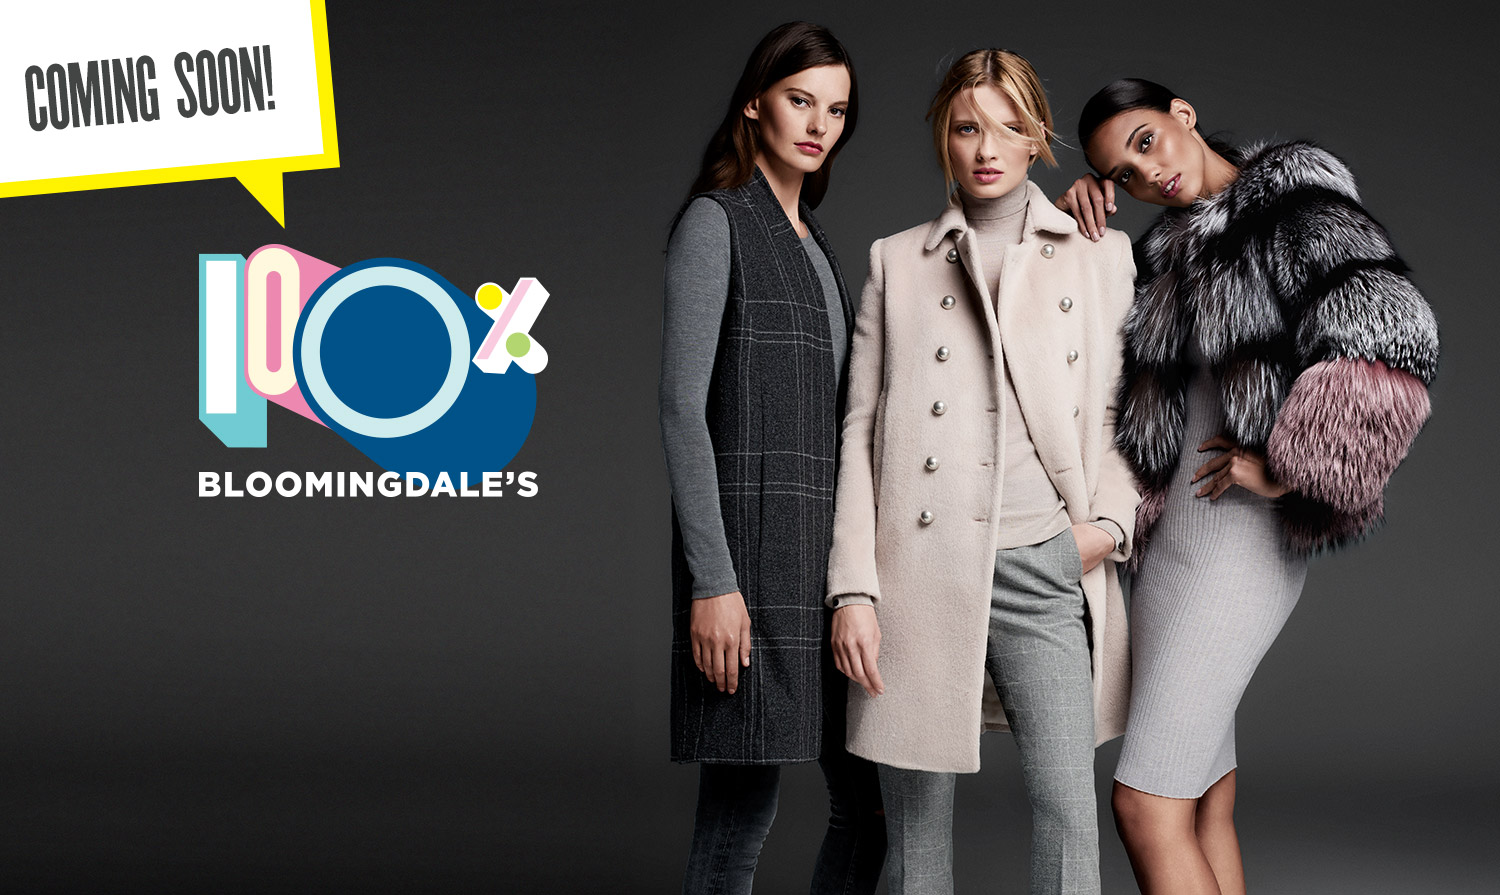
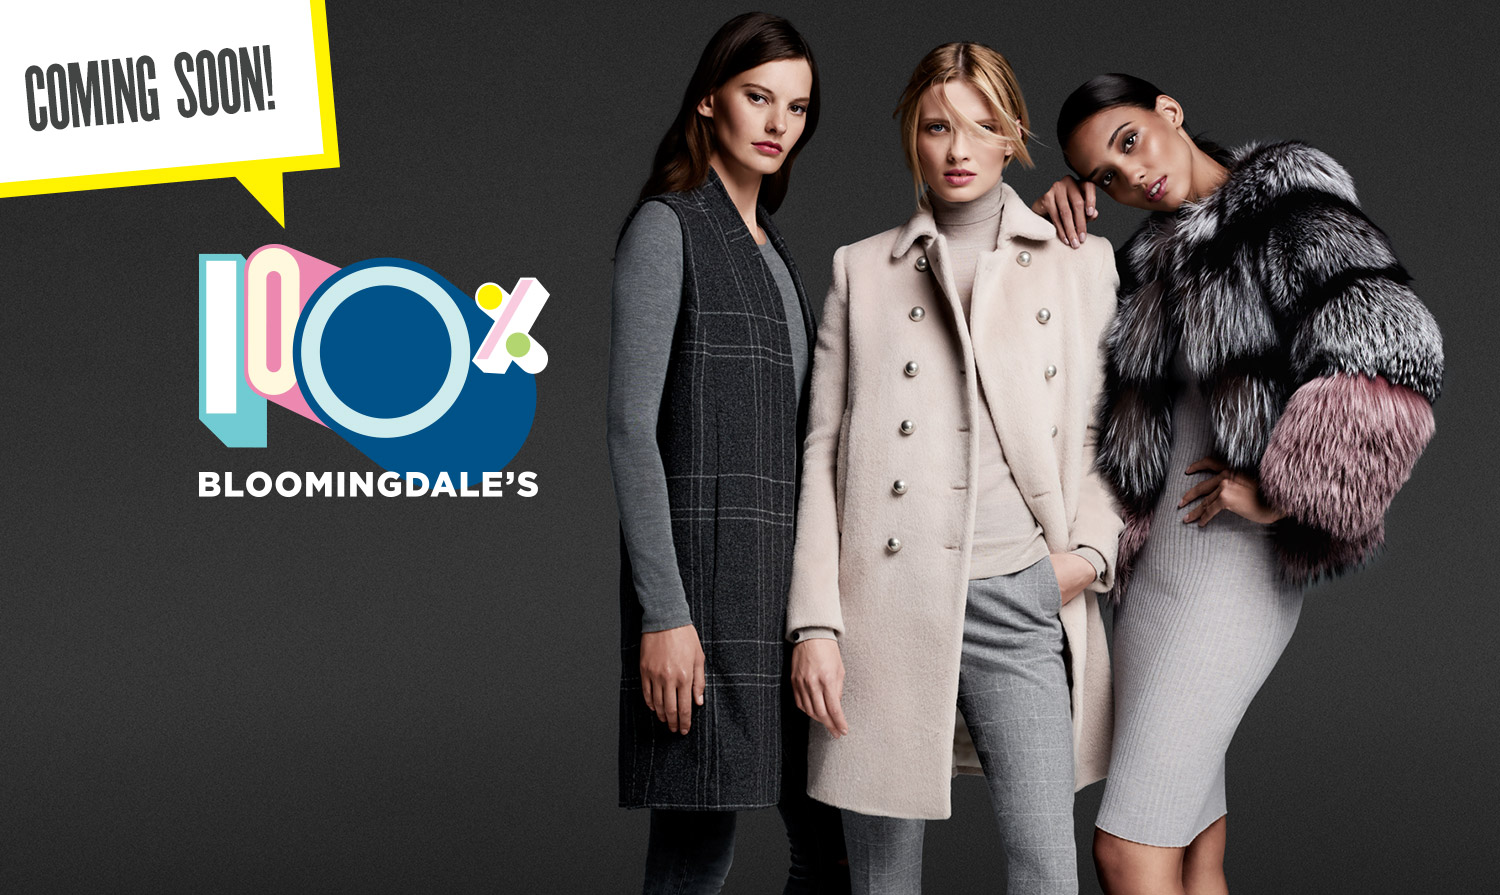
B-53872 (5)
fix defect: D-38823, D-38627, new image updated

Changed region(s): [[0.3987, 0.0, 1.0, 1.0]]

diff --git a/server/lib/views/100-percent-exclusive-2016-summer-collection/index.html b/server/lib/views/100-percent-exclusive-2016-summer-collection/index.html
@@ -2,29 +2,32 @@
 <meta name="description" content="Check out Bloomingdale’s 100% Exclusive 2016 Summer Collection Here! Amazing Stylish Designer Collections ONLY on Bloomingdale’s.">
 <link href="/fashion/styles/projects/100-percent-exclusive-2016-summer-collection/style.css" rel="stylesheet" type="text/css" >
 <link rel="canonical" href="http://fashion.bloomingdales.com/100-percent-exclusive-2016-summer-collection/">
-
+<link href='https://fonts.googleapis.com/css?family=Lato:400,700,900' rel='stylesheet' type='text/css'>
 
 <section id="comingsoon_main">
 	<img id="background_image" src="/fashion/images/projects/100-percent-exclusive-2016-summer-collection/coming-soon_bg.jpg"/>
 	<div id="text1">Sign up for emails to be the first to hear<br/>about our exclusive designer collaborations.</div>
 	<div id="text2"><strong>Plus, receive 10% off your next purchase!</strong></div>
 	<a href="http://www.bloomingdales.com/signup"><div id="emailSignup" coremetricTag="sign_up_for_emls" >sign up for emails</div></a>
+
+	<footer id="coming-soon-footer" class="bottom-links">
+		<div class="copy"><span>can't wait?</span>&nbsp;shop bloomingdales.com now:</div>
+		<div class="links">
+			<a coremetricTag="shop_women" href="http://www1.bloomingdales.com/shop/womens-apparel?id=2910">women</a>
+			<a coremetricTag="shop_shoes" href="http://www1.bloomingdales.com/shop/shoes?id=16961">shoes</a>
+			<a coremetricTag="shop_handbags" href="http://www1.bloomingdales.com/shop/handbags?id=16958">handbags</a>
+			<a coremetricTag="shop_jewelry_&_accessories" href="http://www1.bloomingdales.com/shop/jewelry-accessories?id=3376">jewelry &amp; accessories</a>
+			<a coremetricTag="shop_beauty" href="http://www1.bloomingdales.com/shop/beauty?id=2921">beauty</a>
+			<a coremetricTag="shop_men" href="http://www1.bloomingdales.com/shop/mens?id=3864">men</a>
+			<a coremetricTag="shop_kids" href="http://www1.bloomingdales.com/shop/kids?id=3866">kids</a>
+			<a coremetricTag="shop_home" href="http://www1.bloomingdales.com/shop/home?id=3865">home</a>
+		</div>
+	</footer>
+
 </section>
 
 
-<footer id="coming-soon-footer" class="bottom-links">
-	<div class="copy"><span>can't wait?</span>&nbsp;shop bloomingdales.com now:</div>
-	<div class="links">
-		<a coremetricTag="shop_womens" href="http://www1.bloomingdales.com/shop/womens-apparel?id=2910">women</a>
-		<a coremetricTag="shop_shoes" href="http://www1.bloomingdales.com/shop/shoes?id=16961">shoes</a>
-		<a coremetricTag="shop_handbags" href="http://www1.bloomingdales.com/shop/handbags?id=16958">handbags</a>
-		<a coremetricTag="shop_jewelry_&_accessories" href="http://www1.bloomingdales.com/shop/jewelry-accessories?id=3376">jewelry &amp; accessories</a>
-		<a coremetricTag="shop_beauty" href="http://www1.bloomingdales.com/shop/beauty?id=2921">beauty</a>
-		<a coremetricTag="shop_men" href="http://www1.bloomingdales.com/shop/mens?id=3864">men</a>
-		<a coremetricTag="shop_kids" href="http://www1.bloomingdales.com/shop/kids?id=3866">kids</a>
-		<a coremetricTag="shop_home" href="http://www1.bloomingdales.com/shop/home?id=3865">home</a>
-	</div>
-</footer>
+
 
 
 <script type="text/javascript" src="/fashion/javascripts/libs/jquery-1.9.1.min.js"></script>

diff --git a/public/javascripts/projects/100-percent-exclusive-2016-summer-collection/init.js b/public/javascripts/projects/100-percent-exclusive-2016-summer-collection/init.js
@@ -29,13 +29,15 @@ $(document).ready(function($) {
     }     
 
     $('[coremetricTag]').click(function() {
-        coreTag('Element', categoryID, ismobile + $( this ).attr( "coremetricTag" ));
+        coreTag('Element', categoryID, $( this ).attr( "coremetricTag" ));
     });
 
 
 	function mobileAndTabletcheck () {
-        return ($("footer").css("text-align") === "center" );
-//		return 'ontouchstart' in window;
+        //return ($("footer").css("text-align") === "center" );
+		//return 'ontouchstart' in window;
+        return ( /Android|webOS|iPhone|iPod|BlackBerry|IEMobile|Opera Mini/i.test(navigator.userAgent) );
+
 	}
 
 

diff --git a/public/styles/projects/100-percent-exclusive-2016-summer-collection/style.scss b/public/styles/projects/100-percent-exclusive-2016-summer-collection/style.scss
@@ -13,7 +13,7 @@ html, body {
 
 #comingsoon_main{
 	width:100%;
-	background-color:orange;
+	background-color:white;
 }
 #background_image{
 	width:100%;
@@ -80,7 +80,7 @@ html, body {
 			display: -webkit-inline-flex;
 			
 			text-transform: uppercase;
-			font-family: "Avenir LT W01 55 Roman", Arial;
+			font-family: 'Lato', sans-serif;
 			font-size: 1.16vw;
 		}
 
@@ -130,7 +130,7 @@ html, body {
 		max-width: 100vw;
 		margin-top: 20px;
 		text-align: center;
-		font-family: "Avenir LT W01 85 Heavy", Arial;
+		font-family: 'Lato', sans-serif;
 
 		.copy {
 			font-size: 15px;
